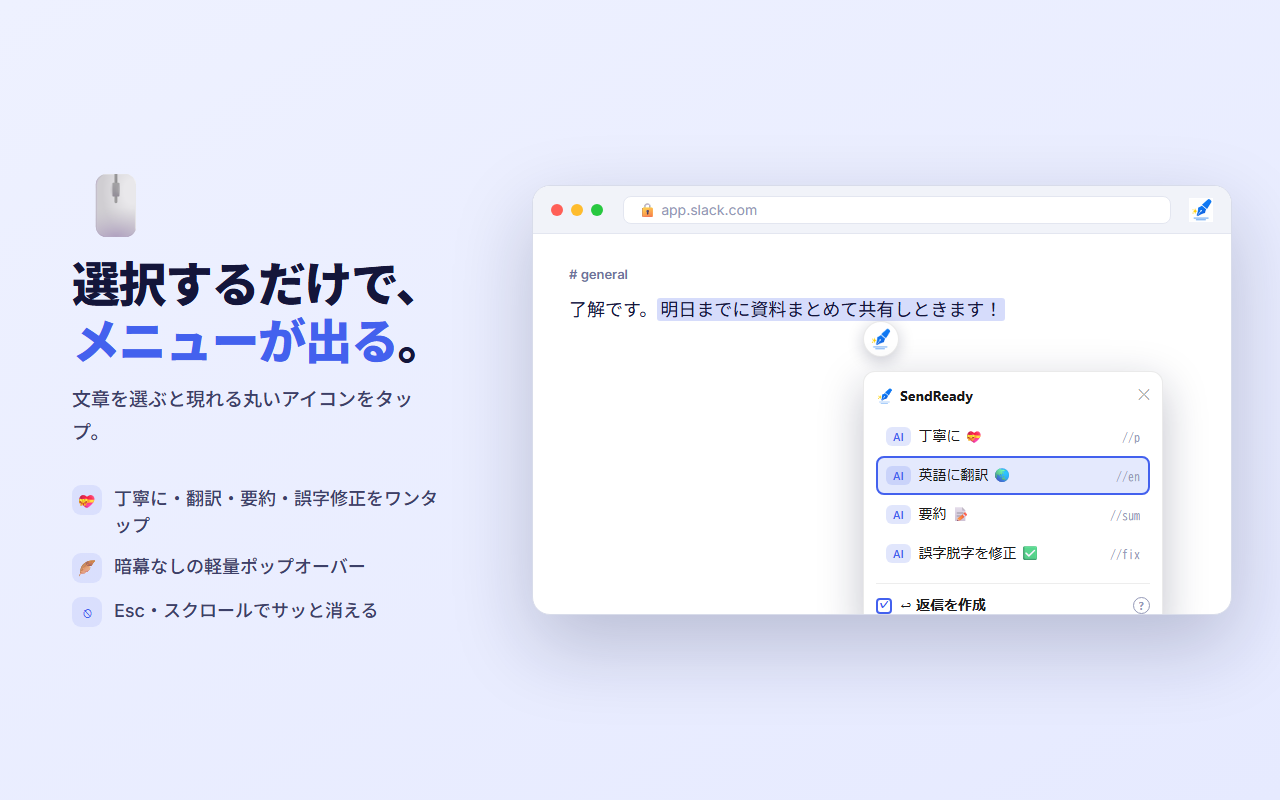
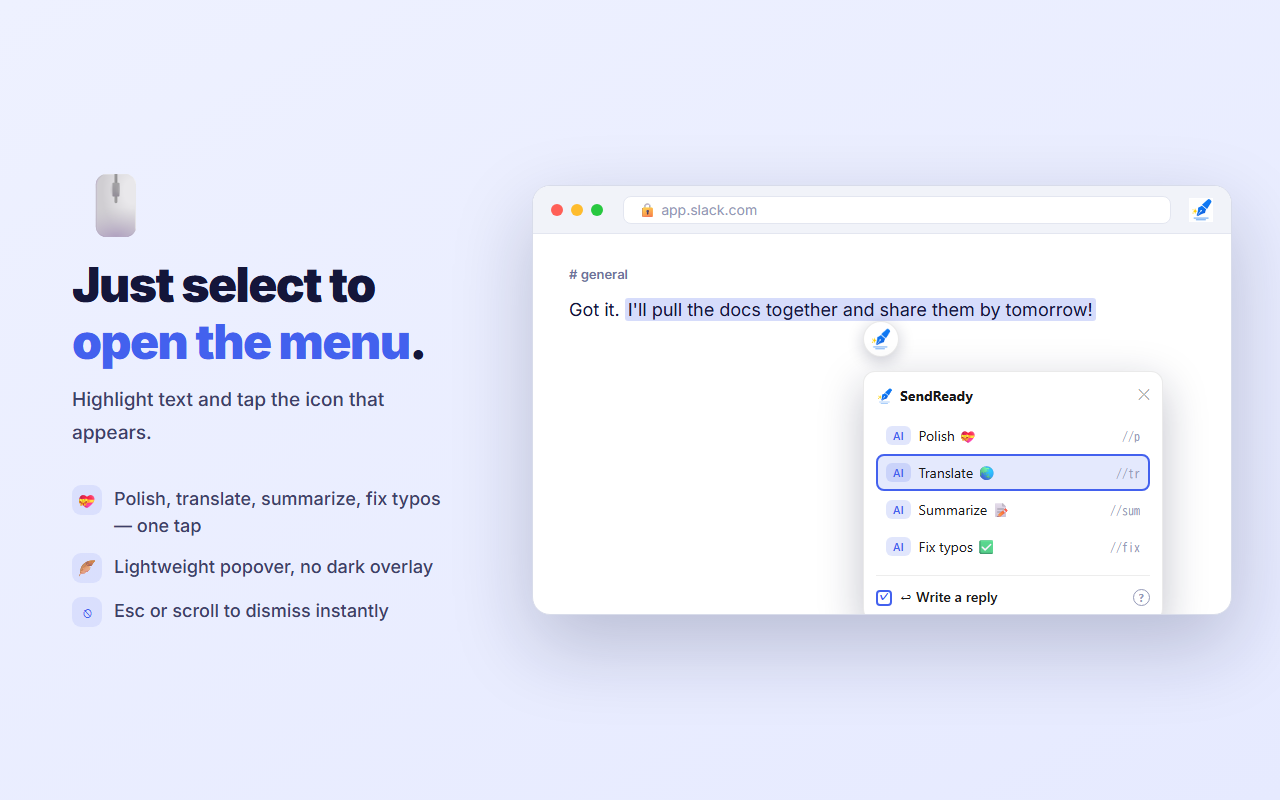
SendReady Chrome: store-image を英語化
store-images.html のキャプション・モックUI文言をすべて英語に翻訳し、
6枚＋フィーチャー画像(1400x560)を再生成。lang=en。

diff --git a/sendready-chrome/store-images.html b/sendready-chrome/store-images.html
@@ -1,5 +1,5 @@
 <!DOCTYPE html>
-<html lang="ja">
+<html lang="en">
 <head>
 <meta charset="UTF-8">
 <meta name="robots" content="noindex, nofollow">
@@ -112,25 +112,25 @@ body { background:#C8CCE0; font-family:'Inter','Noto Sans JP',sans-serif; }
   <div class="glow" style="right:-80px;top:-100px;width:600px;height:600px;background:radial-gradient(circle,rgba(67,97,238,.1) 0%,transparent 60%);"></div>
   <div class="panel">
     <div class="p-emoji">✍</div>
-    <div class="p-title">送る前に、<br><span class="ind">AIがひと手間</span>。</div>
-    <div class="p-sub">敬語に直す、英語に訳す、要約する。<br>そのたびに別タブのAIへコピペ往復…</div>
+    <div class="p-title">Before you send,<br><span class="ind">let AI add the polish</span>.</div>
+    <div class="p-sub">Make it polite, translate, summarize —<br>each time, copy-pasting to another AI tab…</div>
     <div class="dvr"><div class="dvr-l"></div><div class="dvr-p">SendReady</div><div class="dvr-l"></div></div>
-    <div class="s-title">選択 or トリガーで<br>その場でワンタップ変換</div>
-    <div class="s-sub">いま開いている入力欄のまま、AIが整えます。<br>登録不要・1日50回まで無料。</div>
+    <div class="s-title">One-tap transform,<br>by selection or trigger</div>
+    <div class="s-sub">Right in the field you're using. AI handles it.<br>No sign-up · 50 free runs a day.</div>
   </div>
   <div class="win" style="width:680px;height:470px;right:48px;top:165px;position:absolute;">
     <div class="win-bar"><span class="dot dr"></span><span class="dot dy"></span><span class="dot dg"></span><div class="url">🔒 mail.google.com</div><img src="icons/icon48.png" class="ext-ico"></div>
     <div style="padding:30px 34px;">
       <div style="font-size:16px;color:var(--t3);padding:12px 0;border-bottom:1px solid var(--dv);">To: client@example.com</div>
-      <div style="font-size:18px;font-weight:600;padding:14px 0;border-bottom:1px solid var(--dv);">打ち合わせの件について</div>
-      <div style="font-size:18px;line-height:2;padding:22px 2px;color:var(--t1);"><span class="sel">明日の打ち合わせ、10時で大丈夫です。よろしく。</span></div>
+      <div style="font-size:18px;font-weight:600;padding:14px 0;border-bottom:1px solid var(--dv);">Re: our meeting</div>
+      <div style="font-size:18px;line-height:2;padding:22px 2px;color:var(--t1);"><span class="sel">Tomorrow's meeting at 10 works for me. Thanks.</span></div>
     </div>
     <div class="sr-panel" style="position:absolute;right:40px;top:225px;">
       <div class="sr-header"><div class="sr-tw"><img src="icons/mark.png"><span class="sr-title">SendReady</span></div><span class="sr-x">✕</span></div>
-      <div class="sr-item hi"><span class="sr-tag sr-tag-ai">AI</span><span class="sr-it-title">丁寧に 💝</span><span class="sr-it-trg">//p</span></div>
-      <div class="sr-item"><span class="sr-tag sr-tag-ai">AI</span><span class="sr-it-title">英語に翻訳 🌏</span><span class="sr-it-trg">//en</span></div>
-      <div class="sr-item"><span class="sr-tag sr-tag-ai">AI</span><span class="sr-it-title">要約 📝</span><span class="sr-it-trg">//sum</span></div>
-      <div class="sr-check"><span class="sr-cb">✓</span><span>↩ 返信を作成</span><span class="sr-help">?</span></div>
+      <div class="sr-item hi"><span class="sr-tag sr-tag-ai">AI</span><span class="sr-it-title">Polish 💝</span><span class="sr-it-trg">//p</span></div>
+      <div class="sr-item"><span class="sr-tag sr-tag-ai">AI</span><span class="sr-it-title">Translate 🌏</span><span class="sr-it-trg">//tr</span></div>
+      <div class="sr-item"><span class="sr-tag sr-tag-ai">AI</span><span class="sr-it-title">Summarize 📝</span><span class="sr-it-trg">//sum</span></div>
+      <div class="sr-check"><span class="sr-cb">✓</span><span>↩ Write a reply</span><span class="sr-help">?</span></div>
     </div>
   </div>
 </div>
@@ -140,28 +140,28 @@ body { background:#C8CCE0; font-family:'Inter','Noto Sans JP',sans-serif; }
   <div style="position:absolute;inset:0;background:linear-gradient(150deg,#EEF1FF 0%,#E6EAFF 100%);"></div>
   <div class="panel">
     <div class="p-emoji">🖱</div>
-    <div class="p-title">選択するだけで、<br><span class="ind">メニューが出る</span>。</div>
-    <div class="p-sub">文章を選ぶと現れる丸いアイコンをタップ。</div>
+    <div class="p-title">Just select to<br><span class="ind">open the menu</span>.</div>
+    <div class="p-sub">Highlight text and tap the icon that appears.</div>
     <div class="p-feats">
-      <div class="p-feat"><span class="pf-ic">💝</span>丁寧に・翻訳・要約・誤字修正をワンタップ</div>
-      <div class="p-feat"><span class="pf-ic">🪶</span>暗幕なしの軽量ポップオーバー</div>
-      <div class="p-feat"><span class="pf-ic">⎋</span>Esc・スクロールでサッと消える</div>
+      <div class="p-feat"><span class="pf-ic">💝</span>Polish, translate, summarize, fix typos — one tap</div>
+      <div class="p-feat"><span class="pf-ic">🪶</span>Lightweight popover, no dark overlay</div>
+      <div class="p-feat"><span class="pf-ic">⎋</span>Esc or scroll to dismiss instantly</div>
     </div>
   </div>
   <div class="win" style="width:700px;height:430px;right:48px;top:185px;position:absolute;">
     <div class="win-bar"><span class="dot dr"></span><span class="dot dy"></span><span class="dot dg"></span><div class="url">🔒 app.slack.com</div><img src="icons/icon48.png" class="ext-ico"></div>
     <div style="padding:32px 36px;">
       <div style="font-size:13px;color:var(--t3);font-weight:600;margin-bottom:10px;"># general</div>
-      <div style="font-size:18px;color:var(--t1);line-height:2;">了解です。<span class="sel">明日までに資料まとめて共有しときます！</span></div>
+      <div style="font-size:18px;color:var(--t1);line-height:2;">Got it. <span class="sel">I'll pull the docs together and share them by tomorrow!</span></div>
     </div>
     <div class="sr-launcher" style="position:absolute;left:330px;top:135px;"><img src="icons/mark.png"></div>
     <div class="sr-panel" style="position:absolute;left:330px;top:185px;">
       <div class="sr-header"><div class="sr-tw"><img src="icons/mark.png"><span class="sr-title">SendReady</span></div><span class="sr-x">✕</span></div>
-      <div class="sr-item"><span class="sr-tag sr-tag-ai">AI</span><span class="sr-it-title">丁寧に 💝</span><span class="sr-it-trg">//p</span></div>
-      <div class="sr-item hi"><span class="sr-tag sr-tag-ai">AI</span><span class="sr-it-title">英語に翻訳 🌏</span><span class="sr-it-trg">//en</span></div>
-      <div class="sr-item"><span class="sr-tag sr-tag-ai">AI</span><span class="sr-it-title">要約 📝</span><span class="sr-it-trg">//sum</span></div>
-      <div class="sr-item"><span class="sr-tag sr-tag-ai">AI</span><span class="sr-it-title">誤字脱字を修正 ✅</span><span class="sr-it-trg">//fix</span></div>
-      <div class="sr-check"><span class="sr-cb">✓</span><span>↩ 返信を作成</span><span class="sr-help">?</span></div>
+      <div class="sr-item"><span class="sr-tag sr-tag-ai">AI</span><span class="sr-it-title">Polish 💝</span><span class="sr-it-trg">//p</span></div>
+      <div class="sr-item hi"><span class="sr-tag sr-tag-ai">AI</span><span class="sr-it-title">Translate 🌏</span><span class="sr-it-trg">//tr</span></div>
+      <div class="sr-item"><span class="sr-tag sr-tag-ai">AI</span><span class="sr-it-title">Summarize 📝</span><span class="sr-it-trg">//sum</span></div>
+      <div class="sr-item"><span class="sr-tag sr-tag-ai">AI</span><span class="sr-it-title">Fix typos ✅</span><span class="sr-it-trg">//fix</span></div>
+      <div class="sr-check"><span class="sr-cb">✓</span><span>↩ Write a reply</span><span class="sr-help">?</span></div>
     </div>
   </div>
 </div>
@@ -171,27 +171,27 @@ body { background:#C8CCE0; font-family:'Inter','Noto Sans JP',sans-serif; }
   <div style="position:absolute;inset:0;background:linear-gradient(150deg,#FBFBFF 0%,#EEF1FF 100%);"></div>
   <div class="panel">
     <div class="p-emoji">⌨</div>
-    <div class="p-title">打って、<span class="ind">Enter</span>。<br>それだけ。</div>
-    <div class="p-sub">前置トリガー＋文章 → AIが変換して、<br>その場で置き換え。</div>
+    <div class="p-title">Type, hit <span class="ind">Enter</span>.<br>That's it.</div>
+    <div class="p-sub">Trigger + text → AI transforms it<br>and replaces it in place.</div>
     <div class="p-feats">
-      <div class="p-feat"><span class="pf-ic">⚡</span>手を止めずに入力欄でそのまま変換</div>
-      <div class="p-feat"><span class="pf-ic">↵</span>Enterは消費され、改行・送信しない</div>
+      <div class="p-feat"><span class="pf-ic">⚡</span>Transform right in the field, without stopping</div>
+      <div class="p-feat"><span class="pf-ic">↵</span>Enter is consumed — no newline or send</div>
     </div>
   </div>
   <div style="position:absolute;right:48px;top:200px;display:flex;align-items:center;gap:22px;">
     <div class="win" style="width:440px;">
       <div class="win-bar"><span class="dot dr"></span><span class="dot dy"></span><span class="dot dg"></span><div class="url">🔒 x.com</div></div>
       <div style="padding:28px;">
-        <div style="font-size:12px;color:var(--ind);font-weight:700;margin-bottom:10px;">INPUT</div>
-        <div style="border:2px solid var(--ind);border-radius:12px;padding:16px 18px;font-size:19px;color:var(--t1);min-height:110px;line-height:1.6;"><span style="font-family:ui-monospace,monospace;color:var(--ind);font-weight:700;">//en</span> 明日10時に伺います<span style="display:inline-block;width:2px;height:23px;background:var(--ind);vertical-align:-4px;margin-left:2px;"></span></div>
-        <div style="margin-top:16px;display:flex;align-items:center;gap:10px;color:var(--t3);font-size:15px;"><span class="kbd">Enter ⏎</span> で変換</div>
+        <div style="font-size:12px;color:var(--ind);font-weight:700;margin-bottom:10px;">TYPE HERE</div>
+        <div style="border:2px solid var(--ind);border-radius:12px;padding:16px 18px;font-size:19px;color:var(--t1);min-height:110px;line-height:1.6;"><span style="font-family:ui-monospace,monospace;color:var(--ind);font-weight:700;">//p</span> be there at 10 tmrw<span style="display:inline-block;width:2px;height:23px;background:var(--ind);vertical-align:-4px;margin-left:2px;"></span></div>
+        <div style="margin-top:16px;display:flex;align-items:center;gap:10px;color:var(--t3);font-size:15px;">Press <span class="kbd">Enter ⏎</span></div>
       </div>
     </div>
     <div style="font-size:40px;color:var(--ind);font-weight:300;">→</div>
     <div class="sr-panel" style="width:330px;">
       <div class="sr-header"><div class="sr-tw"><img src="icons/mark.png"><span class="sr-title">SendReady</span></div><span class="sr-x">✕</span></div>
       <div class="sr-result-box">I'll be there at 10 tomorrow.</div>
-      <div class="sr-actions"><span class="sr-btn sr-btn-p">適用</span><span class="sr-btn">コピー</span><span class="sr-btn">再生成</span></div>
+      <div class="sr-actions"><span class="sr-btn sr-btn-p">Apply</span><span class="sr-btn">Copy</span><span class="sr-btn">Redo</span></div>
     </div>
   </div>
 </div>
@@ -201,27 +201,27 @@ body { background:#C8CCE0; font-family:'Inter','Noto Sans JP',sans-serif; }
   <div style="position:absolute;inset:0;background:linear-gradient(150deg,#EEF1FF 0%,#E9FBF4 100%);"></div>
   <div class="panel">
     <div class="p-emoji">↩</div>
-    <div class="p-title">選んで、<br><span class="ind">返信を生成</span>。</div>
-    <div class="p-sub">受け取った文を選択して「返信を作成」。<br>文体を選んでひと言指示するだけ。</div>
+    <div class="p-title">Select it,<br><span class="ind">generate a reply</span>.</div>
+    <div class="p-sub">Select the message, hit "Write a reply".<br>Pick a tone, add a quick hint.</div>
     <div class="p-feats">
-      <div class="p-feat"><span class="pf-ic">🎚</span>丁寧・カジュアルなど文体を選べる</div>
-      <div class="p-feat"><span class="pf-ic">📋</span>結果はコピーして返信欄へ</div>
+      <div class="p-feat"><span class="pf-ic">🎚</span>Choose a tone — polite, casual, and more</div>
+      <div class="p-feat"><span class="pf-ic">📋</span>Copy the result into your reply box</div>
     </div>
   </div>
   <div style="position:absolute;right:48px;top:175px;display:flex;align-items:flex-start;gap:26px;">
     <div class="win" style="width:400px;">
       <div class="win-bar"><span class="dot dr"></span><span class="dot dy"></span><span class="dot dg"></span><div class="url">🔒 mail.google.com</div></div>
       <div style="padding:26px 28px;">
-        <div style="display:flex;align-items:center;gap:10px;margin-bottom:14px;"><div style="width:38px;height:38px;border-radius:50%;background:var(--bg-alt);display:flex;align-items:center;justify-content:center;font-weight:700;color:var(--ind);">田</div><div><div style="font-weight:700;font-size:15px;color:var(--t1);">田中さん</div><div style="font-size:12px;color:var(--t3);">14:32</div></div></div>
-        <div style="font-size:16px;color:var(--t1);line-height:1.9;"><span class="sel">来週の打ち合わせ、水曜の午後はご都合いかがでしょうか？場所は弊社オフィスを予定しています。</span></div>
+        <div style="display:flex;align-items:center;gap:10px;margin-bottom:14px;"><div style="width:38px;height:38px;border-radius:50%;background:var(--bg-alt);display:flex;align-items:center;justify-content:center;font-weight:700;color:var(--ind);">A</div><div><div style="font-weight:700;font-size:15px;color:var(--t1);">Alex</div><div style="font-size:12px;color:var(--t3);">2:32 PM</div></div></div>
+        <div style="font-size:16px;color:var(--t1);line-height:1.9;"><span class="sel">Are you free Wednesday afternoon for our meeting next week? We're planning to host at our office.</span></div>
       </div>
     </div>
     <div class="sr-panel" style="width:330px;">
-      <div class="sr-header"><div class="sr-tw"><img src="icons/mark.png"><span class="sr-title">↩ 返信を作成</span></div><span class="sr-x">✕</span></div>
-      <div style="font-size:12px;color:var(--t3);margin-bottom:8px;">文体を選択</div>
-      <div style="display:flex;gap:7px;margin-bottom:12px;"><span class="chip on">丁寧</span><span class="chip">カジュアル</span><span class="chip">簡潔</span></div>
-      <div class="sr-result-box" style="font-size:14px;">ご連絡ありがとうございます。水曜の午後で問題ございません。14時に貴社オフィスへ伺います。よろしくお願いいたします。</div>
-      <div class="sr-actions"><span class="sr-btn sr-btn-p">コピー</span><span class="sr-btn">再生成</span></div>
+      <div class="sr-header"><div class="sr-tw"><img src="icons/mark.png"><span class="sr-title">↩ Write a reply</span></div><span class="sr-x">✕</span></div>
+      <div style="font-size:12px;color:var(--t3);margin-bottom:8px;">Pick a tone</div>
+      <div style="display:flex;gap:7px;margin-bottom:12px;"><span class="chip on">Polite</span><span class="chip">Casual</span><span class="chip">Short</span></div>
+      <div class="sr-result-box" style="font-size:14px;">Thanks for reaching out! Wednesday afternoon works — I'll come to your office at 2 PM. Looking forward to it.</div>
+      <div class="sr-actions"><span class="sr-btn sr-btn-p">Copy</span><span class="sr-btn">Redo</span></div>
     </div>
   </div>
 </div>
@@ -231,11 +231,11 @@ body { background:#C8CCE0; font-family:'Inter','Noto Sans JP',sans-serif; }
   <div style="position:absolute;inset:0;background:linear-gradient(150deg,#FBFBFF 0%,#EEF1FF 100%);"></div>
   <div class="panel">
     <div class="p-emoji">⚡</div>
-    <div class="p-title">定型文は、<br><span class="ind">トリガーで一瞬</span>。</div>
-    <div class="p-sub">署名やあいさつをトリガーに登録。<br>打って区切りキーで即展開。</div>
+    <div class="p-title">Snippets, expanded<br><span class="ind">in an instant</span>.</div>
+    <div class="p-sub">Save a signature or greeting to a trigger.<br>Type it, hit a delimiter, done.</div>
     <div class="p-feats">
-      <div class="p-feat"><span class="pf-ic">∞</span>AI不要・回数無制限・即時</div>
-      <div class="p-feat"><span class="pf-ic">🛡</span>確定キーが要るので誤爆しない</div>
+      <div class="p-feat"><span class="pf-ic">∞</span>No AI · unlimited · instant</div>
+      <div class="p-feat"><span class="pf-ic">🛡</span>Needs a confirm key, so no misfires</div>
     </div>
   </div>
   <div style="position:absolute;right:48px;top:205px;display:flex;align-items:center;gap:22px;">
@@ -244,15 +244,15 @@ body { background:#C8CCE0; font-family:'Inter','Noto Sans JP',sans-serif; }
       <div style="padding:26px 28px;">
         <div style="font-size:12px;color:var(--snip);font-weight:700;margin-bottom:10px;">TYPE</div>
         <div style="border:2px solid var(--snip);border-radius:12px;padding:16px 18px;font-size:20px;min-height:90px;color:var(--t1);"><span style="font-family:ui-monospace,monospace;color:var(--snip);font-weight:700;">;sig</span><span style="display:inline-block;width:2px;height:23px;background:var(--snip);vertical-align:-4px;margin-left:2px;"></span></div>
-        <div style="margin-top:14px;display:flex;align-items:center;gap:10px;color:var(--t3);font-size:15px;"><span class="kbd">Space</span> で確定</div>
+        <div style="margin-top:14px;display:flex;align-items:center;gap:10px;color:var(--t3);font-size:15px;">Press <span class="kbd">Space</span></div>
       </div>
     </div>
     <div style="font-size:40px;color:var(--snip);font-weight:300;">→</div>
     <div class="win" style="width:330px;">
       <div class="win-bar"><span class="dot dr"></span><span class="dot dy"></span><span class="dot dg"></span><div class="url">🔒</div></div>
       <div style="padding:22px;">
-        <div style="border:1px solid var(--dv);border-radius:12px;padding:16px;font-size:15px;color:var(--t1);line-height:1.7;background:#fcfcff;">━━━━━━━━━<br>山田 太郎 / Taro Yamada<br>📧 taro@example.com<br>📱 090-1234-5678</div>
-        <div style="margin-top:10px;font-size:13px;color:var(--snip);font-weight:600;text-align:center;">✓ 署名を展開</div>
+        <div style="border:1px solid var(--dv);border-radius:12px;padding:16px;font-size:15px;color:var(--t1);line-height:1.7;background:#fcfcff;">━━━━━━━━━<br>Alex Carter<br>📧 alex@example.com<br>📱 (555) 123-4567</div>
+        <div style="margin-top:10px;font-size:13px;color:var(--snip);font-weight:600;text-align:center;">✓ Signature expanded</div>
       </div>
     </div>
   </div>
@@ -263,24 +263,24 @@ body { background:#C8CCE0; font-family:'Inter','Noto Sans JP',sans-serif; }
   <div style="position:absolute;inset:0;background:linear-gradient(150deg,#EEF1FF 0%,#E6EAFF 100%);"></div>
   <div class="panel">
     <div class="p-emoji">🛠</div>
-    <div class="p-title">自分専用に、<br><span class="ind">育てられる</span>。</div>
-    <div class="p-sub">AI変換と定型文を、それぞれ最大10件。<br>よく使う指示や挨拶を自分のトリガーで。</div>
+    <div class="p-title">Make it<br><span class="ind">your own</span>.</div>
+    <div class="p-sub">Up to 10 AI presets and 10 snippets.<br>Your go-to prompts and greetings, your triggers.</div>
     <div class="p-feats">
-      <div class="p-feat"><span class="pf-ic">🎨</span>テーマ・11言語の切替に対応</div>
-      <div class="p-feat"><span class="pf-ic">📊</span>1日の使用量がひと目でわかる</div>
+      <div class="p-feat"><span class="pf-ic">🎨</span>Switch theme and 11 languages</div>
+      <div class="p-feat"><span class="pf-ic">📊</span>See your daily usage at a glance</div>
     </div>
   </div>
   <div style="position:absolute;right:130px;top:120px;">
     <div class="popup">
-      <div class="pu-hd"><div class="pu-title"><img src="icons/mark.png">SendReady</div><div style="display:flex;align-items:center;gap:9px;"><span class="pu-usage">今日 12 / 50</span><span class="pu-help">使い方</span></div></div>
+      <div class="pu-hd"><div class="pu-title"><img src="icons/mark.png">SendReady</div><div style="display:flex;align-items:center;gap:9px;"><span class="pu-usage">Today 12 / 50</span><span class="pu-help">Help</span></div></div>
       <div class="pu-main">
-        <div class="pu-row"><h3>プリセット</h3><div class="pu-addbtns"><span class="pu-add">+ AI変換</span><span class="pu-add">+ 定型文</span></div></div>
-        <div class="pu-sec ai">AI変換</div>
-        <div class="pu-preset"><span class="pu-ptag ai">AI</span><div class="pu-pmain"><div class="pu-ptitle">丁寧に 💝</div><div class="pu-psub">より丁寧で敬意のある文体に</div></div><span class="pu-ptrg">//p</span></div>
-        <div class="pu-preset"><span class="pu-ptag ai">AI</span><div class="pu-pmain"><div class="pu-ptitle">英語に翻訳 🌏</div><div class="pu-psub">自然な英語に翻訳</div></div><span class="pu-ptrg">//en</span></div>
-        <div class="pu-preset"><span class="pu-ptag ai">AI</span><div class="pu-pmain"><div class="pu-ptitle">要約 📝</div><div class="pu-psub">簡潔に要約</div></div><span class="pu-ptrg">//sum</span></div>
-        <div class="pu-sec snip">定型文</div>
-        <div class="pu-preset"><span class="pu-ptag snip">定型文</span><div class="pu-pmain"><div class="pu-ptitle">署名 🖊</div><div class="pu-psub">署名テンプレート</div></div><span class="pu-ptrg">;sig</span></div>
+        <div class="pu-row"><h3>Presets</h3><div class="pu-addbtns"><span class="pu-add">+ AI</span><span class="pu-add">+ Snippet</span></div></div>
+        <div class="pu-sec ai">AI presets</div>
+        <div class="pu-preset"><span class="pu-ptag ai">AI</span><div class="pu-pmain"><div class="pu-ptitle">Polish 💝</div><div class="pu-psub">Make it more polite and respectful</div></div><span class="pu-ptrg">//p</span></div>
+        <div class="pu-preset"><span class="pu-ptag ai">AI</span><div class="pu-pmain"><div class="pu-ptitle">Translate 🌏</div><div class="pu-psub">Into natural English</div></div><span class="pu-ptrg">//tr</span></div>
+        <div class="pu-preset"><span class="pu-ptag ai">AI</span><div class="pu-pmain"><div class="pu-ptitle">Summarize 📝</div><div class="pu-psub">Make it concise</div></div><span class="pu-ptrg">//sum</span></div>
+        <div class="pu-sec snip">Snippets</div>
+        <div class="pu-preset"><span class="pu-ptag snip">Snippet</span><div class="pu-pmain"><div class="pu-ptitle">Signature 🖊</div><div class="pu-psub">Signature template</div></div><span class="pu-ptrg">;sig</span></div>
       </div>
     </div>
   </div>
@@ -290,21 +290,21 @@ body { background:#C8CCE0; font-family:'Inter','Noto Sans JP',sans-serif; }
 <div class="feat-banner" id="feature">
   <div class="glow" style="left:-100px;bottom:-150px;width:500px;height:500px;background:radial-gradient(circle,rgba(255,255,255,.14) 0%,transparent 60%);"></div>
   <div class="fb-left">
-    <div class="fb-badge">⚡ 完全無料 · Chrome拡張</div>
-    <div class="fb-title">選択・入力中のテキストを<br>AIでワンタップ変換</div>
-    <div class="fb-sub">丁寧語・翻訳・要約・返信。どんな入力欄でも、<br>その場でAIが整える。定型文も一瞬で展開。</div>
-    <div class="fb-pills"><span class="fb-pill">🤖 AI変換</span><span class="fb-pill">⚡ 定型文</span><span class="fb-pill">↩ AI返信</span></div>
+    <div class="fb-badge">⚡ 100% Free · Chrome Extension</div>
+    <div class="fb-title">Transform selected or typed text<br>with AI, in one tap</div>
+    <div class="fb-sub">Polish, translate, summarize, reply. In any field,<br>AI handles it on the spot. Snippets expand instantly, too.</div>
+    <div class="fb-pills"><span class="fb-pill">🤖 AI presets</span><span class="fb-pill">⚡ Snippets</span><span class="fb-pill">↩ AI replies</span></div>
   </div>
   <div class="fb-right">
     <div class="win" style="width:440px;box-shadow:0 40px 90px rgba(0,0,0,.4);">
       <div class="win-bar"><span class="dot dr"></span><span class="dot dy"></span><span class="dot dg"></span><div class="url">🔒 mail.google.com</div><img src="icons/icon48.png" class="ext-ico"></div>
       <div style="padding:22px 24px;">
-        <div style="font-size:15px;line-height:1.9;color:var(--t1);"><span class="sel">明日の打ち合わせ、10時で大丈夫です。</span></div>
+        <div style="font-size:15px;line-height:1.9;color:var(--t1);"><span class="sel">Tomorrow's meeting at 10 works for me.</span></div>
       </div>
       <div class="sr-panel" style="margin:4px 18px 18px;width:auto;">
         <div class="sr-header"><div class="sr-tw"><img src="icons/mark.png"><span class="sr-title">SendReady</span></div><span class="sr-x">✕</span></div>
-        <div class="sr-item hi"><span class="sr-tag sr-tag-ai">AI</span><span class="sr-it-title">丁寧に 💝</span><span class="sr-it-trg">//p</span></div>
-        <div class="sr-item"><span class="sr-tag sr-tag-ai">AI</span><span class="sr-it-title">英語に翻訳 🌏</span><span class="sr-it-trg">//en</span></div>
+        <div class="sr-item hi"><span class="sr-tag sr-tag-ai">AI</span><span class="sr-it-title">Polish 💝</span><span class="sr-it-trg">//p</span></div>
+        <div class="sr-item"><span class="sr-tag sr-tag-ai">AI</span><span class="sr-it-title">Translate 🌏</span><span class="sr-it-trg">//tr</span></div>
       </div>
     </div>
   </div>
